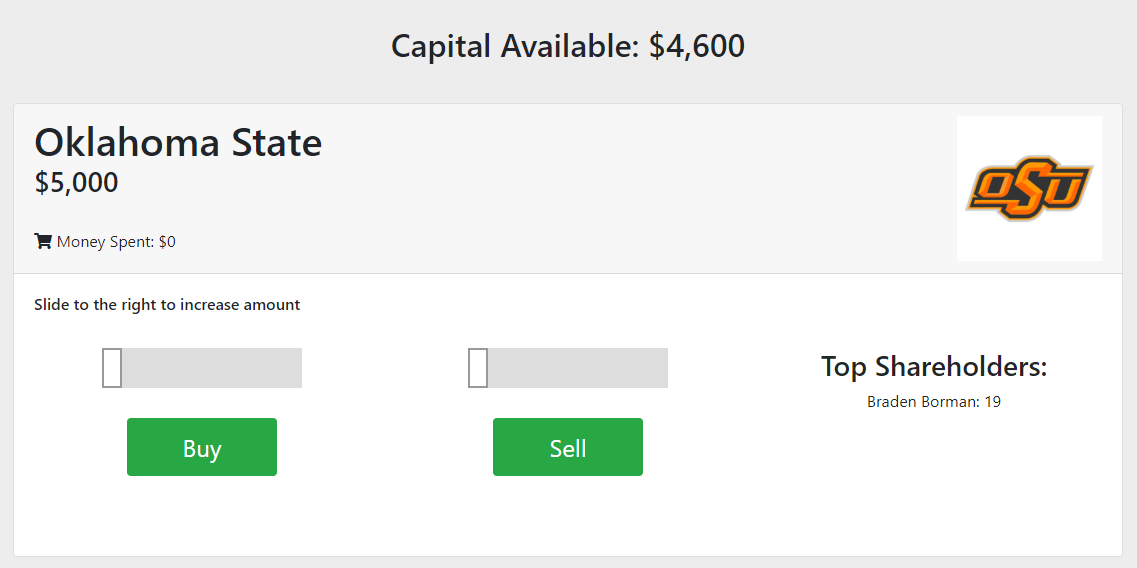
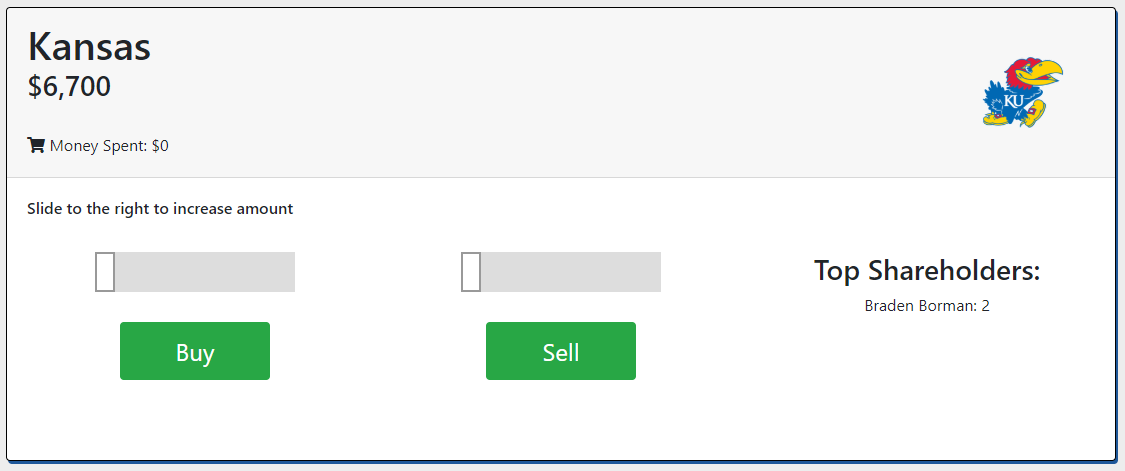
things

diff --git a/src/main/resources/templates/rules.html b/src/main/resources/templates/rules.html
@@ -13,6 +13,7 @@
     <link href="https://unpkg.com/aos@2.3.1/dist/aos.css" rel="stylesheet">
     <script src="https://unpkg.com/aos@2.3.1/dist/aos.js"></script>
     <link rel="stylesheet" type="text/css" href="css/Header.css">
+    <link rel="stylesheet" type="text/css" href="css/socialmediabtns.css">
     <link href='https://fonts.googleapis.com/css?family=Alfa Slab One' rel='stylesheet'>
     <link rel="stylesheet" type="text/css" href="css/Rules.css">
     <link rel="stylesheet" href="https://use.fontawesome.com/releases/v5.7.0/css/all.css"

diff --git a/src/main/resources/static/css/Trade.css b/src/main/resources/static/css/Trade.css
@@ -15,6 +15,11 @@
 	text-align: center;
 }
 
+.card {
+    border: 1px solid black;
+    box-shadow: 2px 3px #1e5799;
+}
+
 .card-title {
 	margin-bottom: 35px;
 }
